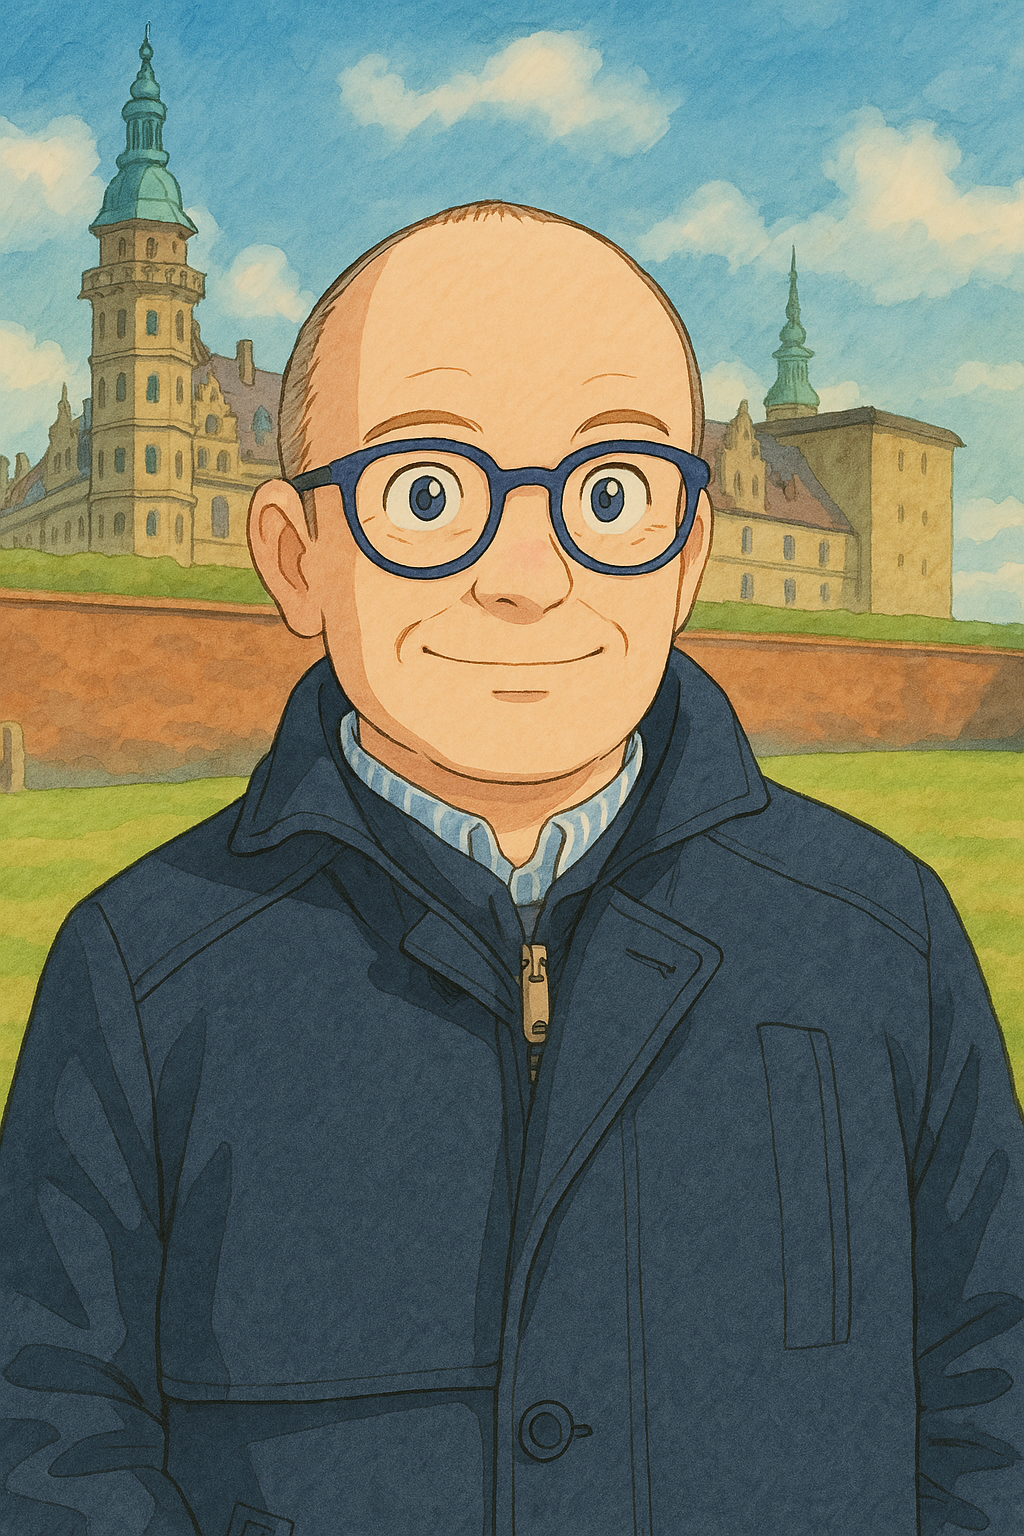
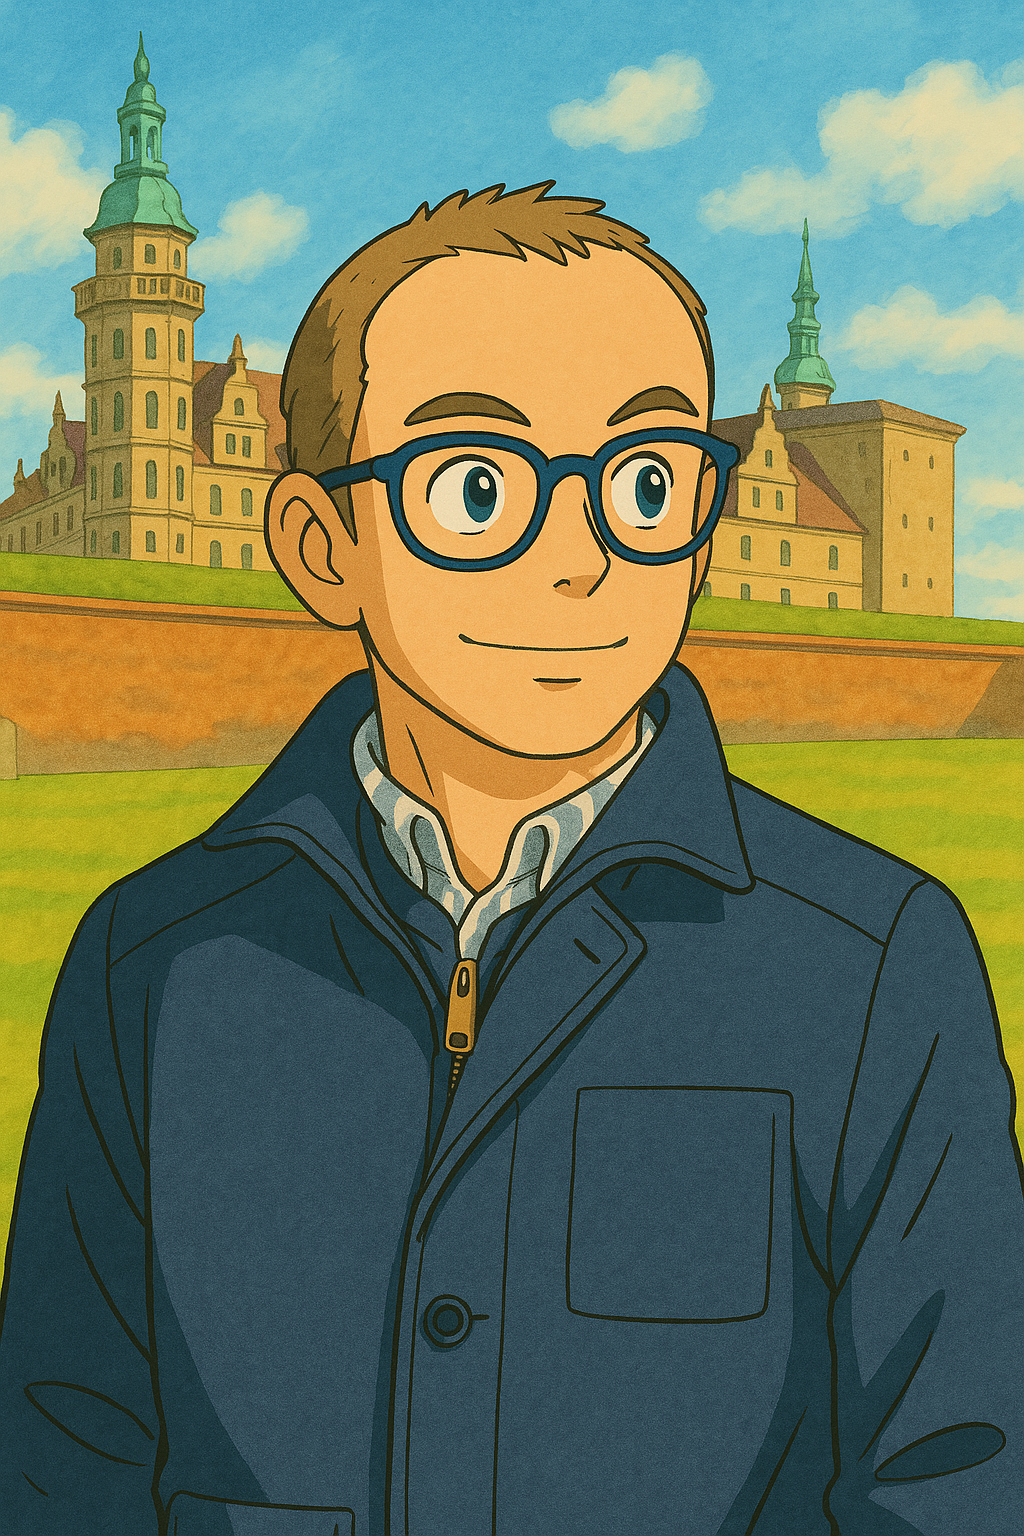
More pictures

diff --git a/index.html b/index.html
@@ -170,7 +170,7 @@
     <section class="hero-section">
       <div class="hero-image">
         <!-- Replace 'portrait.png' with the actual filename of your attached image -->
-        <img src="portrait.png" alt="Portrait of Markus Friede Hens">
+        <img src="portrait_vector.png" alt="Portrait of Markus Friede Hens">
       </div>
       <div class="hero-text">
         <h1>Less Buzz, More Action</h1>
